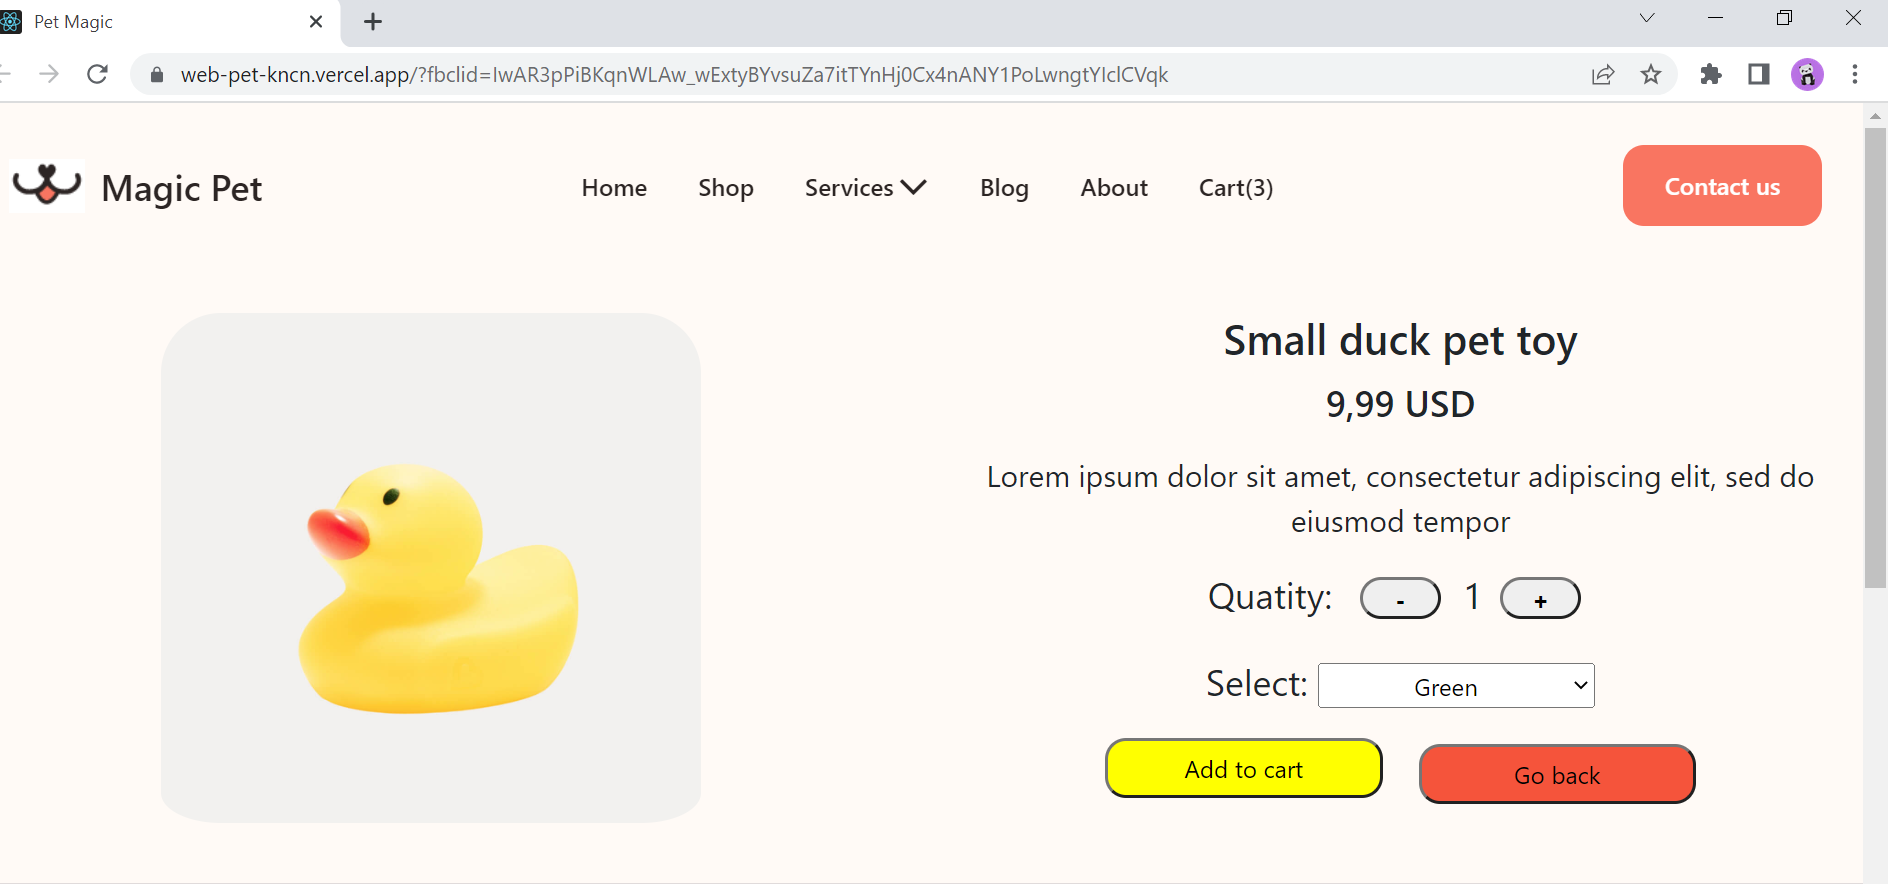
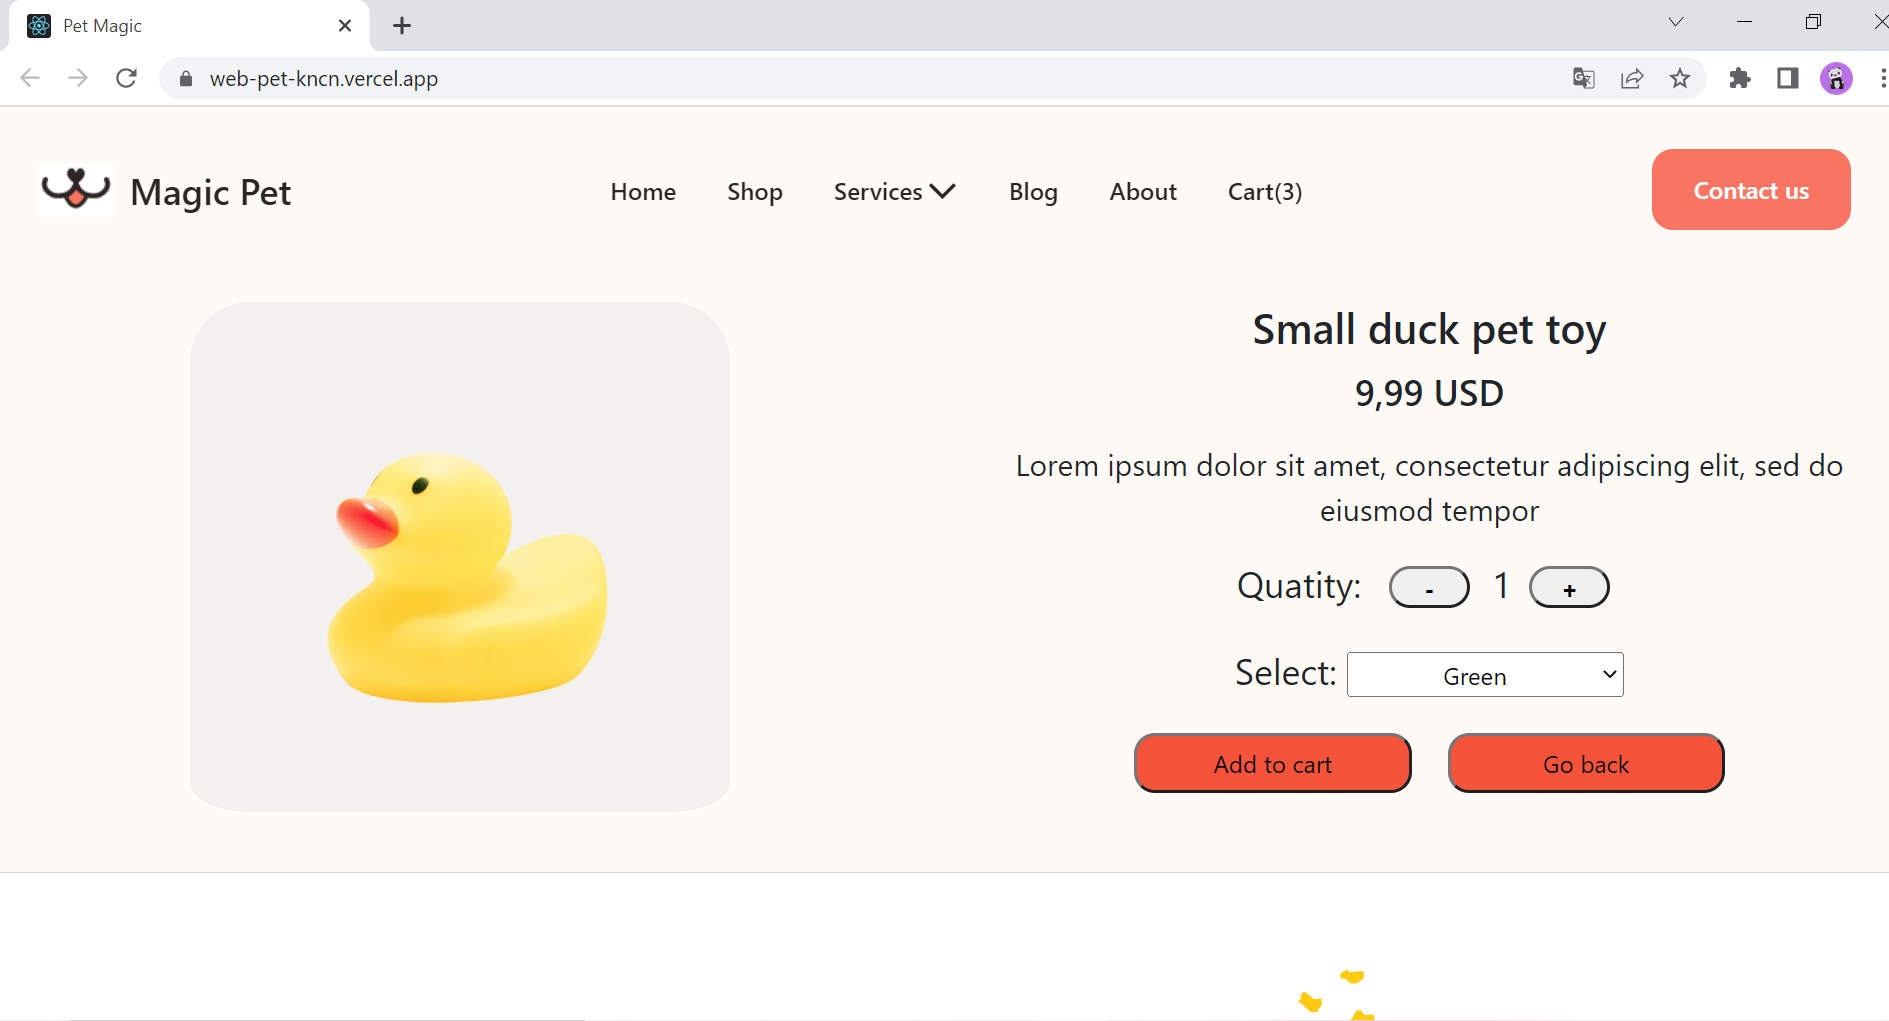
update product page and responsive

diff --git a/src/components/Product.js b/src/components/Product.js
@@ -2,24 +2,98 @@ import React from "react";
 import Slider from "react-slick";
 import POSList from "./DataPOS";
 import PetList from "./DataPet";
+import happy from "./images/icons/happy.gif";
+import "./styles/style.css";
 export default function Product() {
   const settings = {
     dots: true,
     infinite: true,
     slidesToShow: 3,
     slidesToScroll: 1,
-    autoplay: false,
-    speed: 3000,
+    autoplay: true,
+    speed: 500,
     autoplaySpeed: 3000,
-    cssEase: "ease-in-out",
+    cssEase: "linear",
+    responsive: [
+      {
+        breakpoint: 1200,
+        settings: {
+          slidesToShow: 3,
+          slidesToScroll: 3,
+          infinite: true,
+          dots: true,
+        },
+      },
+      {
+        breakpoint: 992,
+        settings: {
+          slidesToShow: 2,
+          slidesToScroll: 2,
+          initialSlide: 2,
+        },
+      },
+      {
+        breakpoint: 768,
+        settings: {
+          slidesToShow: 2,
+          slidesToScroll: 2,
+          initialSlide: 2,
+        },
+      },
+      {
+        breakpoint: 576,
+        settings: {
+          slidesToShow: 1,
+          slidesToScroll: 1,
+        },
+      },
+    ],
   };
+  const listHappy = [
+    {
+      title: "Happy",
+      img: happy,
+    },
+    {
+      title: "Happy",
+      img: happy,
+    },
+    {
+      title: "Happy",
+      img: happy,
+    },
+  ];
+  const listProducts = [
+    {
+      key: 1,
+      title: "POS-Restaurant (Project đầu tiên của mình)",
+      product: POSList,
+    },
+    {
+      key: 2,
+      title: "Shop bán phụ kiện thú cưng",
+      product: PetList,
+    },
+  ];
   return (
     <div id="ProductPage">
-      <Slider {...settings}>
-        {PetList.map((list) => (
-          <img src={list.img} />
-        ))}
-      </Slider>
+      {listProducts.map((product, index) => (
+        <>
+          <h4 className="product--title">{product.title}</h4>
+          <div className="row product--item container-fluid">
+            <Slider {...settings}>
+              {product.product.map((p) => (
+                <img className="product__img" src={p.img} />
+              ))}
+            </Slider>
+          </div>
+          <div className="happy--item">
+            {listHappy.map((happy) => (
+              <img className="happy__img" src={happy.img} />
+            ))}
+          </div>
+        </>
+      ))}
     </div>
   );
 }

diff --git a/src/components/styles/style.css b/src/components/styles/style.css
@@ -260,6 +260,9 @@
   #controller .header .git :hover {
     color: inherit;
   }
+  #ProductPage .product--item {
+    height: 258px;
+  }
 }
 
 @media (max-width: 1200px) and (min-width: 992px) {
@@ -342,6 +345,18 @@
   #HobbyPage .hobby__img {
     width: 80%;
     height: 120px;
+  }
+  #ProductPage .product__img {
+    padding: 0 6px;
+    height: 210px;
+    border-radius: 12px;
+  }
+  #ProductPage .product--item {
+    height: 258px;
+    background-color: rgba(255, 255, 255, 0.6);
+    margin-bottom: 12px;
+    padding: 24px 0px;
+    border-radius: 24px;
   }
 }
 
@@ -664,6 +679,13 @@
     margin-top: -6px;
     padding: 0px 24px;
   }
+  #ProductPage .product--item {
+    height: 286px;
+  }
+  #ProductPage .product--title {
+    font-size: 18px;
+    text-align: center;
+  }
 }
 
 @media (max-width: 390px) {
@@ -704,6 +726,16 @@
   }
   .header__about {
     font-size: 16px;
+  }
+  #ProductPage .product__img {
+    margin-bottom: 28px;
+  }
+  #ProductPage .product--item {
+    height: 286px;
+  }
+  #ProductPage .product--title {
+    font-size: 16px;
+    text-align: center;
   }
 }
 
@@ -747,6 +779,58 @@
 
 .hobby__text {
   text-align: justify;
+}
+
+#ProductPage .row {
+  padding: 0;
+  margin: 0;
+}
+
+#ProductPage .product--title {
+  width: 100%;
+  background-color: rgba(255, 255, 255, 0.6);
+  border-radius: 24px;
+  padding: 12px 0px;
+  display: -webkit-box;
+  display: -ms-flexbox;
+  display: flex;
+  -webkit-box-pack: center;
+      -ms-flex-pack: center;
+          justify-content: center;
+  -webkit-box-align: center;
+      -ms-flex-align: center;
+          align-items: center;
+}
+
+#ProductPage .product__img {
+  padding: 0 6px;
+  height: 210px;
+  border-radius: 12px;
+}
+
+#ProductPage .product--item {
+  background-color: rgba(255, 255, 255, 0.6);
+  margin-bottom: 12px;
+  padding: 24px 0px;
+  border-radius: 24px;
+}
+
+#ProductPage .happy--item {
+  display: -webkit-box;
+  display: -ms-flexbox;
+  display: flex;
+  -webkit-box-pack: center;
+      -ms-flex-pack: center;
+          justify-content: center;
+  -webkit-box-align: center;
+      -ms-flex-align: center;
+          align-items: center;
+  margin-bottom: 12px;
+}
+
+#ProductPage .happy__img {
+  width: 80px;
+  height: 80px;
 }
 
 #controller {

diff --git a/src/components/styles/_responsive.scss b/src/components/styles/_responsive.scss
@@ -27,6 +27,11 @@
       }
     }
   }
+  #ProductPage {
+    .product--item {
+      height: 258px;
+    }
+  }
 }
 
 @media (max-width: 1200px) and (min-width: 992px) {
@@ -92,6 +97,20 @@
     .hobby__img {
       width: 80%;
       height: 120px;
+    }
+  }
+  #ProductPage {
+    .product__img {
+      padding: 0 6px;
+      height: 210px;
+      border-radius: 12px;
+    }
+    .product--item {
+      height: 258px;
+      background-color: $secondary--color;
+      margin-bottom: 12px;
+      padding: 24px 0px;
+      border-radius: 24px;
     }
   }
 }
@@ -330,6 +349,15 @@
       padding: 0px 24px;
     }
   }
+  #ProductPage {
+    .product--item {
+      height: 286px;
+    }
+    .product--title {
+      font-size: 18px;
+      text-align: center;
+    }
+  }
 }
 @media (max-width: 390px) {
   .col-0 {
@@ -363,5 +391,17 @@
   }
   .header__about {
     font-size: 16px;
+  }
+  #ProductPage {
+    .product__img {
+      margin-bottom: 28px;
+    }
+    .product--item {
+      height: 286px;
+    }
+    .product--title {
+      font-size: 16px;
+      text-align: center;
+    }
   }
 }

diff --git a/src/components/styles/_product.scss b/src/components/styles/_product.scss
@@ -1,0 +1,32 @@
+#ProductPage {
+  .row {
+    padding: 0;
+    margin: 0;
+  }
+  .product--title {
+    width: 100%;
+    background-color: $secondary--color;
+    border-radius: 24px;
+    padding: 12px 0px;
+    @include centerItem();
+  }
+  .product__img {
+    padding: 0 6px;
+    height: 210px;
+    border-radius: 12px;
+  }
+  .product--item {
+    background-color: $secondary--color;
+    margin-bottom: 12px;
+    padding: 24px 0px;
+    border-radius: 24px;
+  }
+  .happy--item {
+    @include centerItem();
+    margin-bottom: 12px;
+  }
+  .happy__img {
+    width: 80px;
+    height: 80px;
+  }
+}

diff --git a/src/Controller.js b/src/Controller.js
@@ -67,7 +67,7 @@ export default function Controller() {
   ];
   return (
     <div id="controller">
-      <marquee onmouseover="this.stop()" onmouseout="this.start()">
+      <marquee>
         Xin chào bạn! Cảm ơn bạn đã ghé thăm website của mình...
       </marquee>
       <header>

diff --git a/src/components/styles/style.scss b/src/components/styles/style.scss
@@ -16,6 +16,7 @@ $secondary--color: rgba(255, 255, 255, 0.6);
 @import "home";
 @import "hobby";
 @import "target";
+@import "product";
 #controller {
   background: linear-gradient(45deg, #c8d0ed, #88f0f8);
   letter-spacing: 0.8px;
